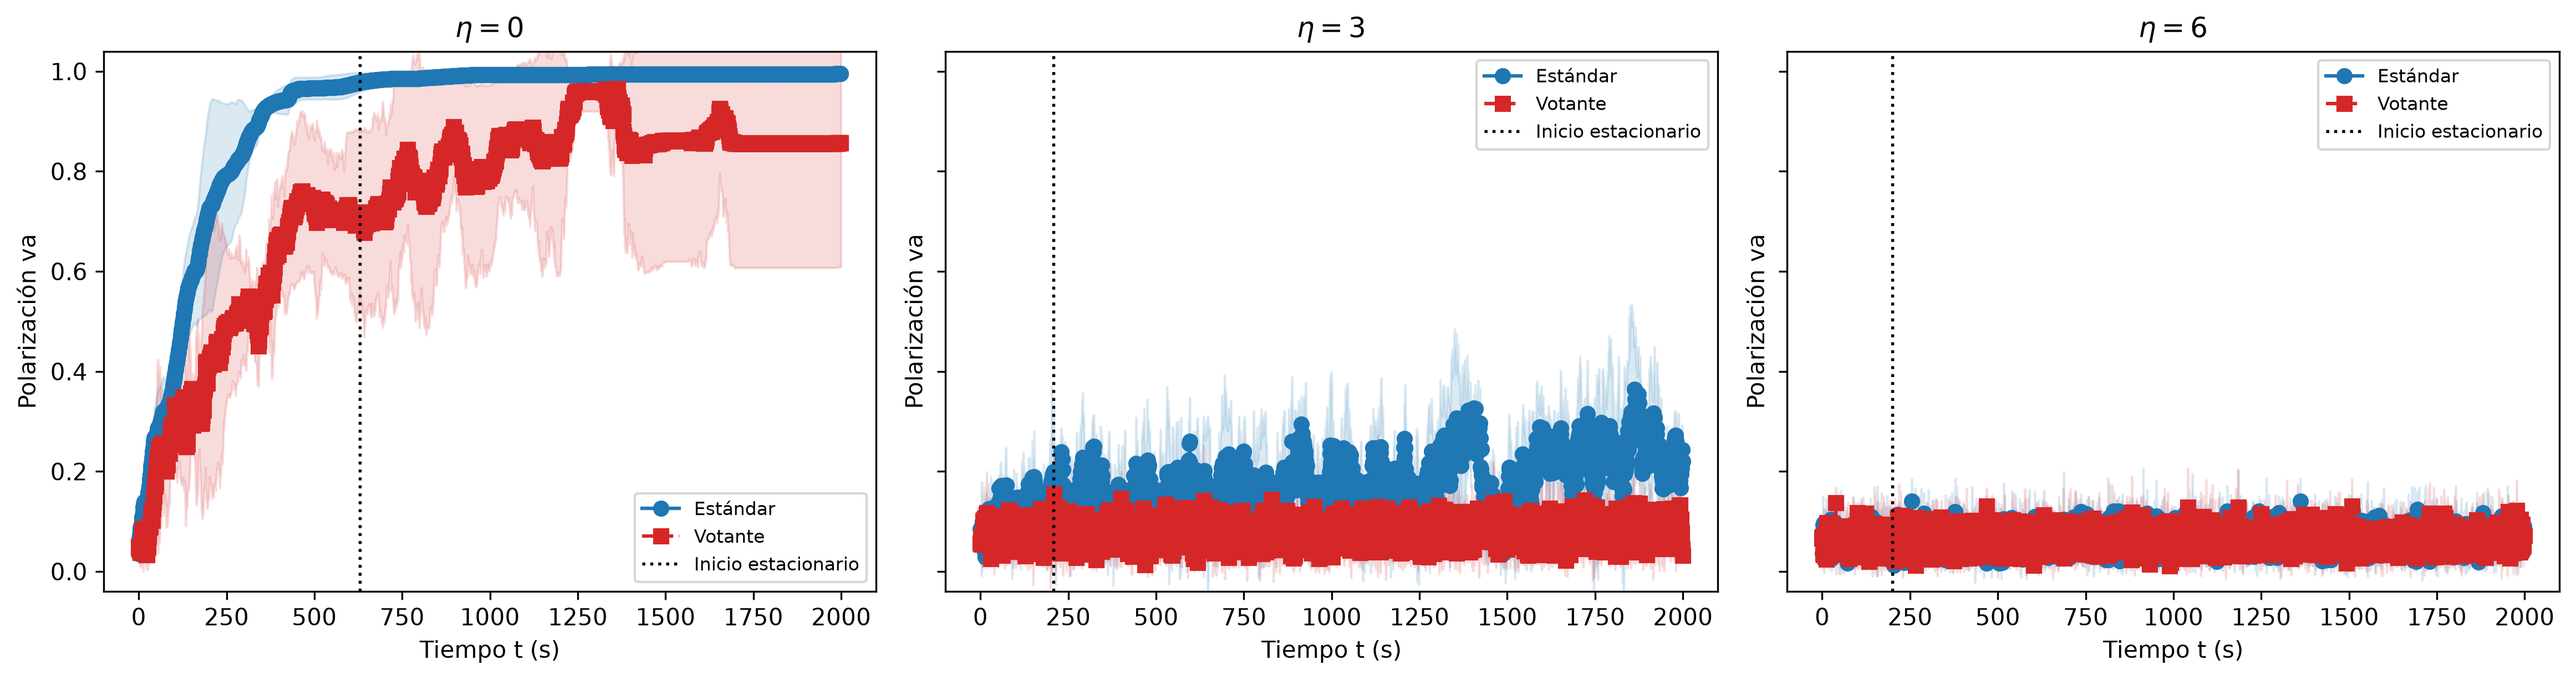
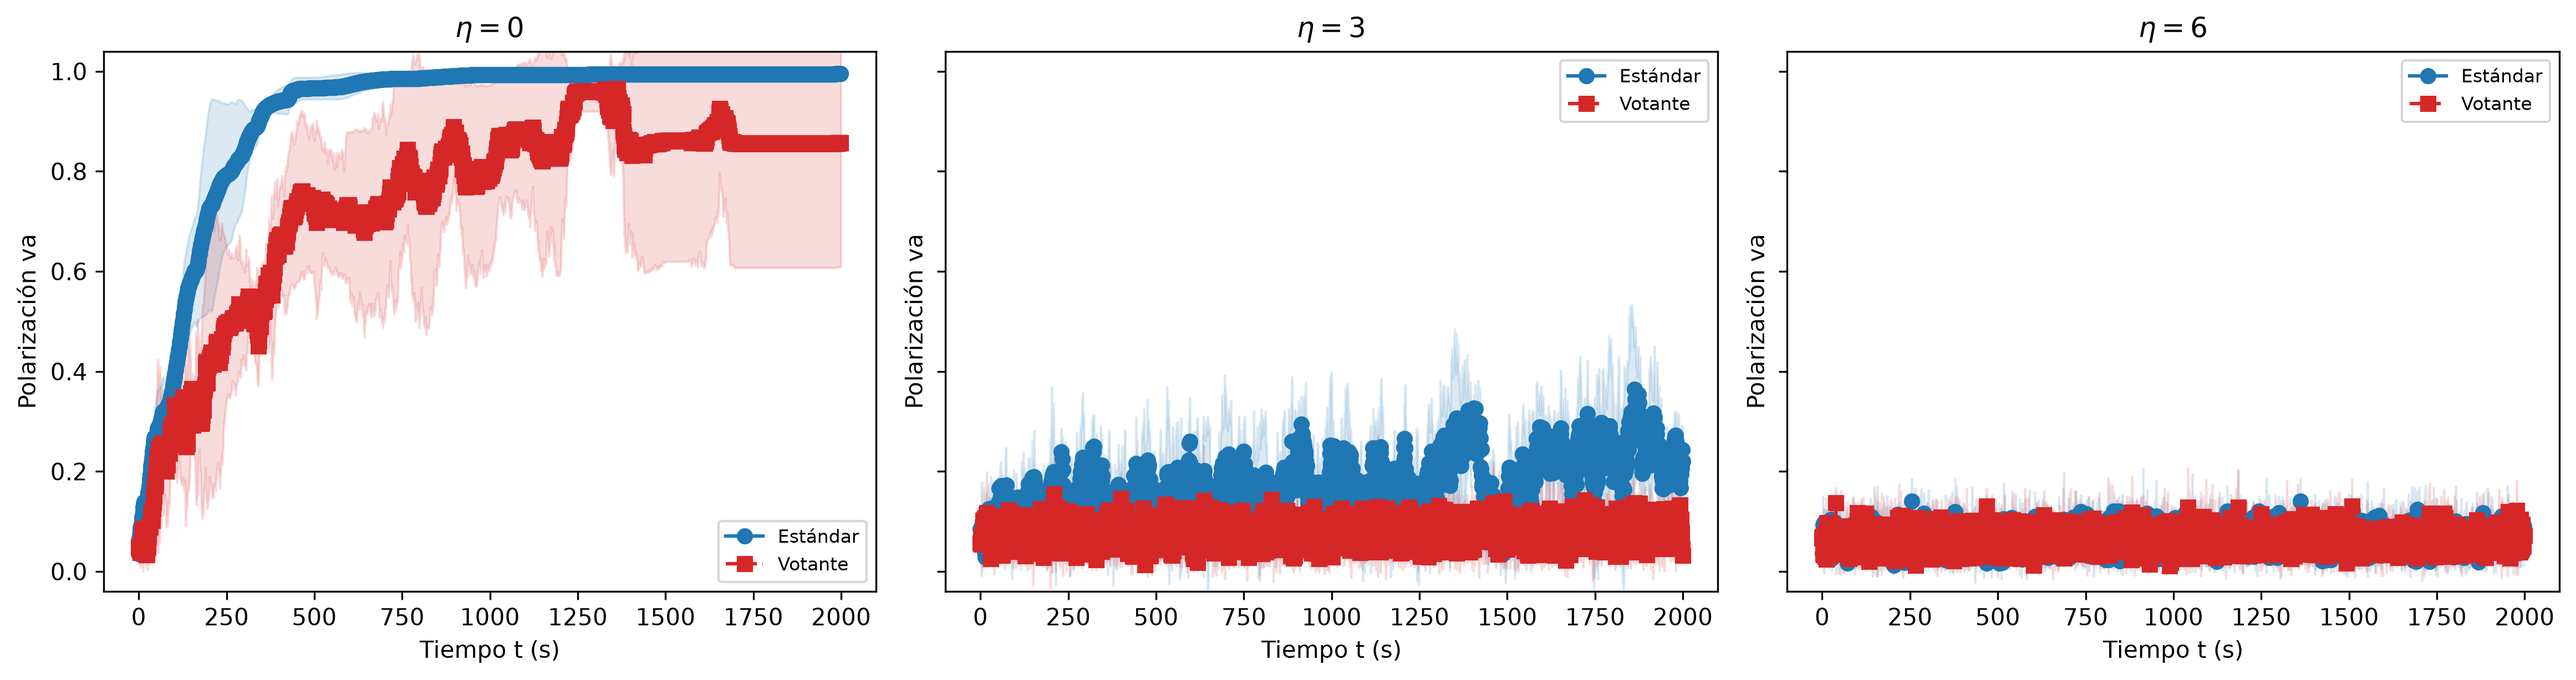
removed inicio estacionario

Changed region(s): [[0.9051, 0.0928, 0.9987, 0.2476], [0.5618, 0.0928, 0.6554, 0.2476], [0.2497, 0.7117, 0.3433, 0.8664]]

diff --git a/visualizer/src/visualizer/sweep/plot_temporal_polarization.py b/visualizer/src/visualizer/sweep/plot_temporal_polarization.py
@@ -1,8 +1,7 @@
 """Figure (b): characteristic evolución temporal de la polarización.
 
 One file per density, with a panel per characteristic eta, comparing the
-Estándar and Votante models in the same axes and marking the median start of
-the steady-state window used for figures (c) and (e).
+Estándar and Votante models in the same axes.
 """
 
 from __future__ import annotations
@@ -47,7 +46,6 @@ def generate(
 
         for axis, eta in zip(axes.flat, etas):
             panel = density_data.loc[np.isclose(density_data["eta"], eta)]
-            starts: list[float] = []
             for model in ordered_models(panel["model"]):
                 curve = panel.loc[panel["model"] == model]
                 style = model_style(model)
@@ -61,25 +59,11 @@ def generate(
                         color=style["color"],
                         alpha=0.16,
                     )
-                start = bundle.temporal_start(model, density, eta)
-                if start is not None:
-                    starts.append(start)
 
-            if starts:
-                axis.axvline(
-                    float(np.median(starts)),
-                    color="black",
-                    linestyle=":",
-                    linewidth=1.3,
-                    label="Inicio estacionario",
-                )
             axis.set_title(f"$\\eta={number_label(eta)}$")
             set_fraction_axis(axis, "Polarización va")
             axis.legend(fontsize=8)
 
-        # figure.suptitle(
-        #     f"Evolución temporal de la polarización ($\\rho={number_label(density)}$)", y=1.03
-        # )
         figure.tight_layout()
         created.append(
             save_figure(

diff --git a/visualizer/src/visualizer/sweep/plot_temporal_cluster_ratio.py b/visualizer/src/visualizer/sweep/plot_temporal_cluster_ratio.py
@@ -72,26 +72,11 @@ def generate(
                         color=style["color"],
                         alpha=0.16,
                     )
-                
-                # Línea vertical del inicio del estado estacionario
-                start = bundle.temporal_start(model, density, eta)
-                if start is not None:
-                    axis.axvline(
-                        start, 
-                        color=style["color"], 
-                        linestyle=":", 
-                        linewidth=1.3,
-                        alpha=0.85
-                    )
 
             axis.set_title(f"$\\eta={number_label(eta)}$")
             set_fraction_axis(axis, "Fracción gigante S")
             axis.legend(loc="best")
 
-        # figure.suptitle(
-        #     f"Evolución temporal de $S$ ($\\rho={number_label(density)}$)",
-        #     y=1.03,
-        # )
         figure.tight_layout()
         
         created.append(
